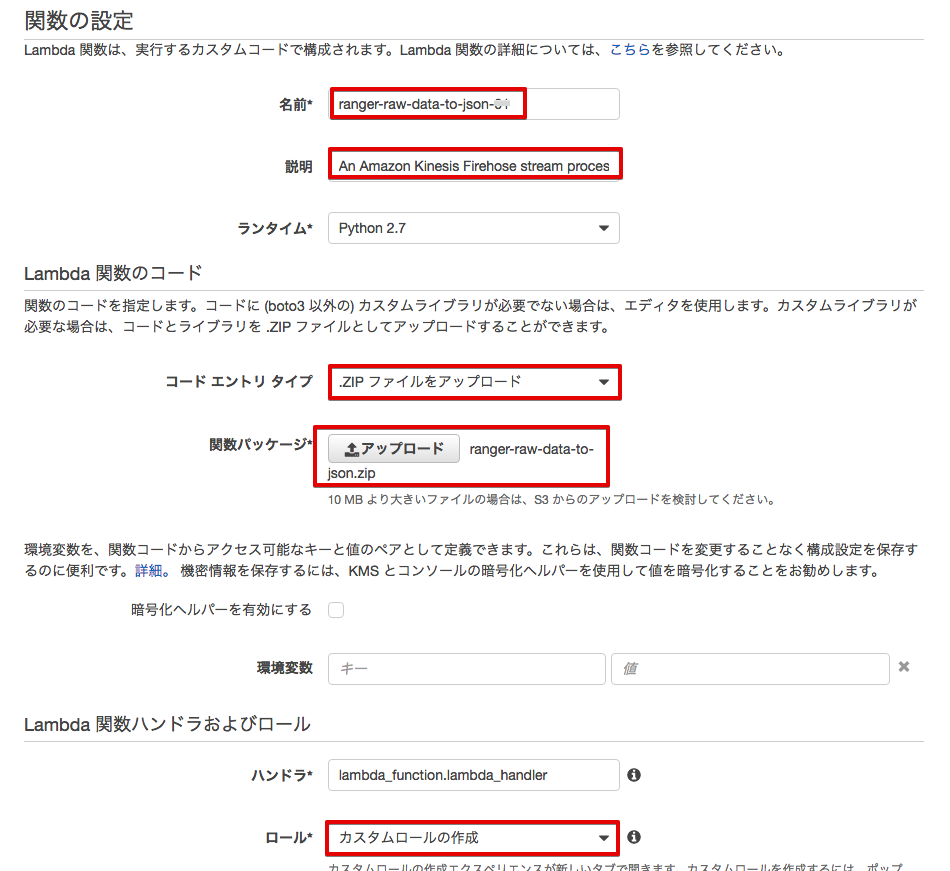
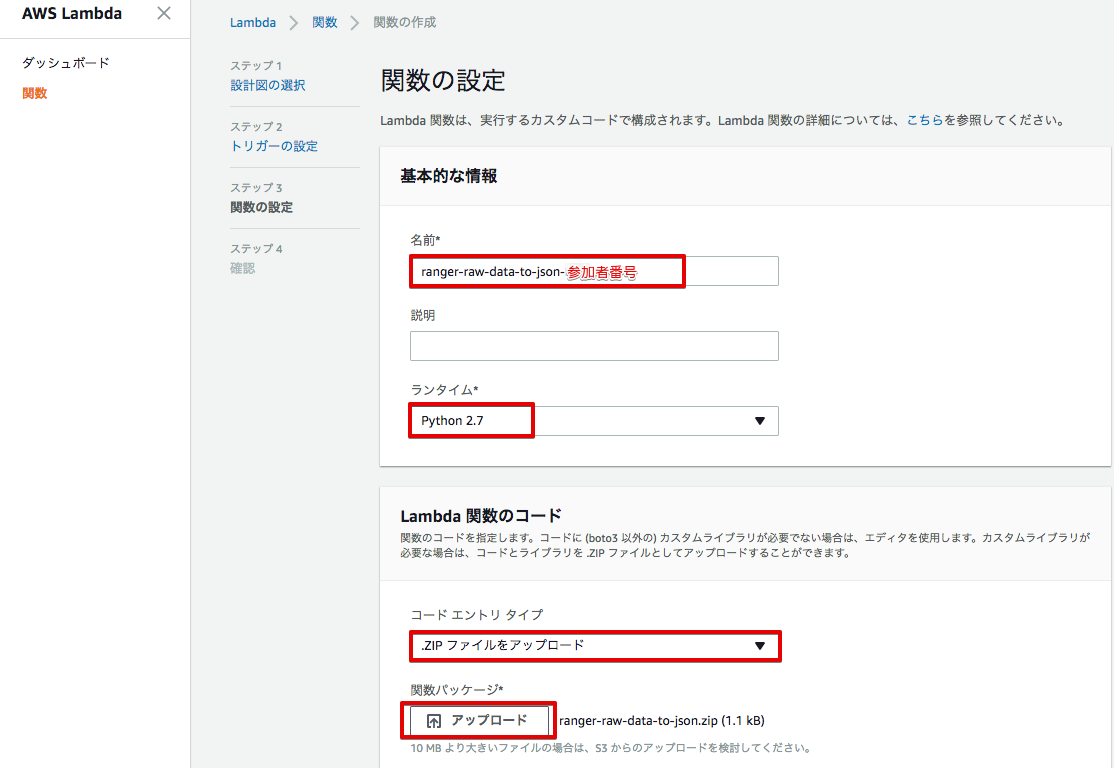
Update

diff --git a/docs/05.rst b/docs/05.rst
@@ -118,21 +118,29 @@ https://s3-ap-northeast-1.amazonaws.com/awsiot-handson-dojo-jp/ranger-raw-data-t
 
 先ほどダウンロードしたLambda関数のzipファイルをAWSにアップロードします。
 下記のような画面が表示されるので、必要事項を入力して下さい。
-ロール：[カスタムロールの作成] を選択すると、別画面でIAMの設定画面が出てきますので、設定に従って、ロールの設定を行って下さい。
 
-======================== =======================================
-項目                        設定
-======================== =======================================
-名前                        ranger-raw-data-to-json-<参加者番号>
-説明                        An Amazon Kinesis Firehose stream processor that converts input records from BLE GW format to JSON.
+============================ =======================================
+項目                            設定
+============================ =======================================
+名前                            ranger-raw-data-to-json-<参加者番号>
+ランタイム                       Python 2.7
 コード エントリ タイプ             ZIPファイルをアップロード
 関数パッケージ                    ranger-raw-data-to-json.zip (先ほどダウンロードしたもの)
-ロール                      カスタムロールの作成
-======================== =======================================
+ロール                           カスタムロールの作成
+============================ =======================================
 
 .. image:: images/05/lambda-5.png
 
 |
+
+「Lambda 関数ハンドラおよびロール」のロールで、[カスタムロールの作成] を選択すると、別画面でIAMの設定画面が出てきます。
+
+
+.. image:: images/05/lambda-custom-role.png
+
+|
+
+下記の設定を入力し、ロールの設定を行って下さい。
 
 IAMの設定画面では、[新しいIAMロールの作成] を選択し、ロール名を入力し、[ポリシードキュメントを表示] をクリックして下さい。このIAMロールでは、Lambda関数のアクセス権限を設定します。Kinesis Firehoseからデータを受け取り、データ変換したデータをKinesis Firehoseへデータを書き戻すことを可能にし、CloudWatchログへのログの出力を許可しています。
 
